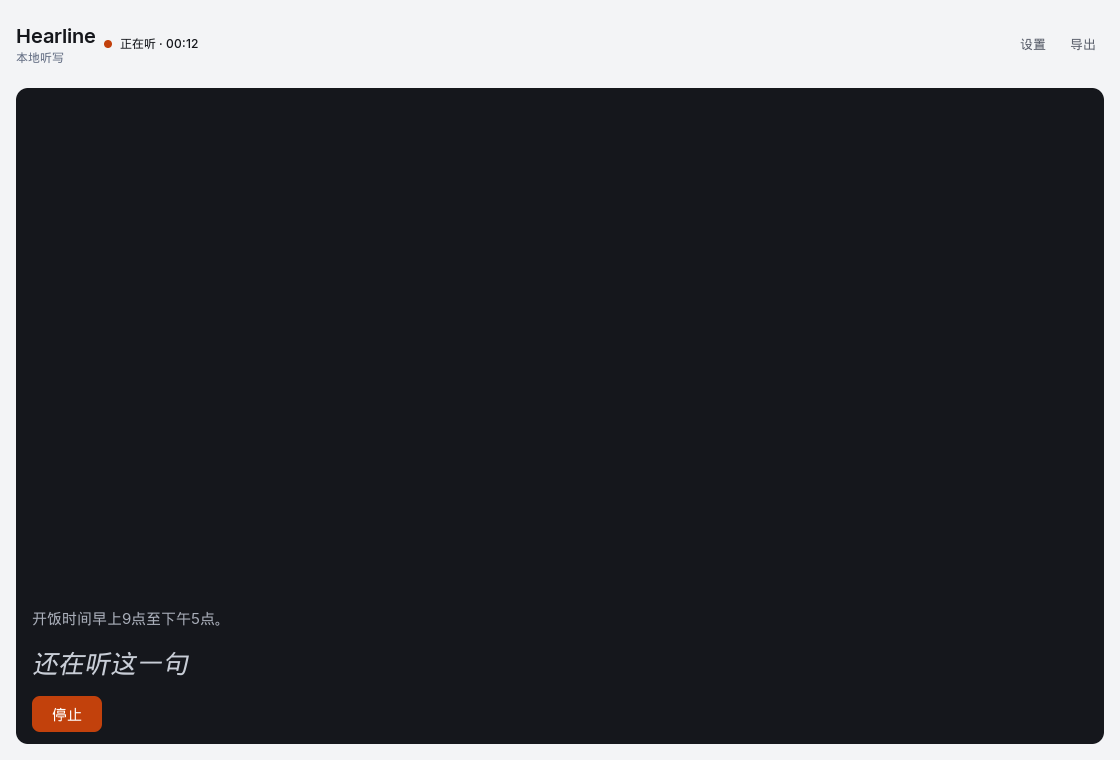
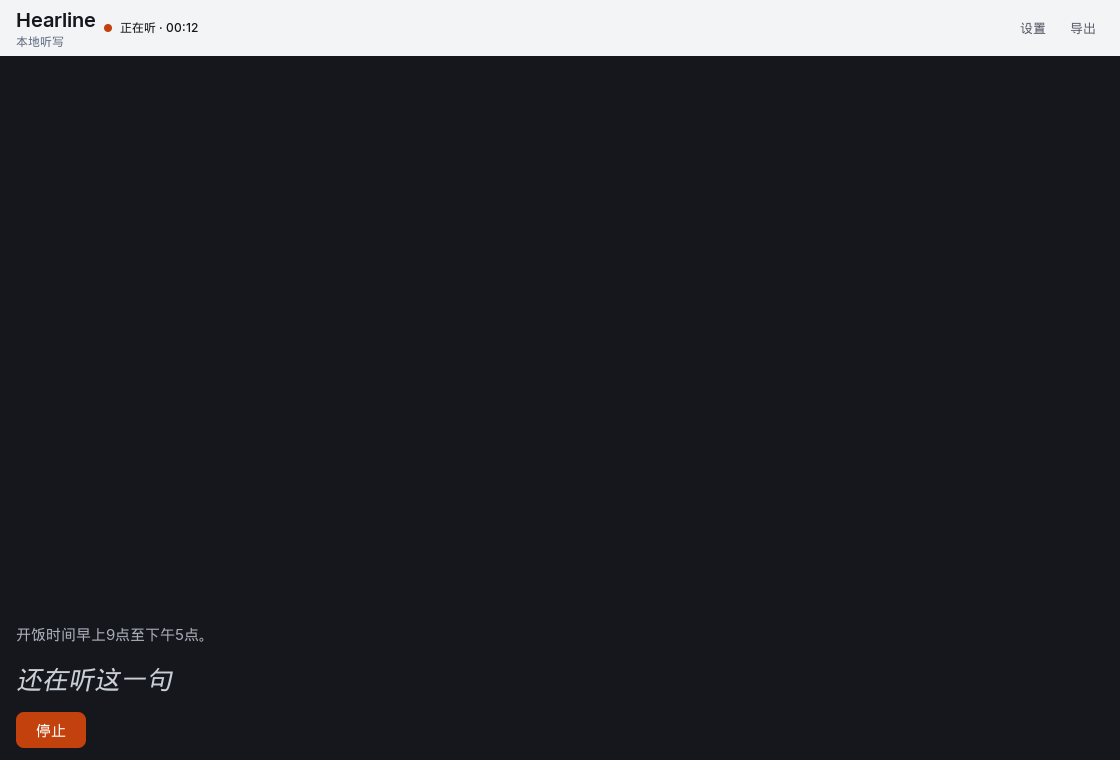
Seat the stage on the window edge
The subtitle surface now runs flush under the header, with square
corners, and the idle line is a short operational hint.

Changed region(s): [[0.0, 0.0, 1.0, 1.0]]

diff --git a/internal/ui/view_test.go b/internal/ui/view_test.go
@@ -220,7 +220,7 @@ func TestChromeLayout(t *testing.T) {
 	if !exactText(idle, "开始听") || exactText(idle, "停止") || exactText(idle, "刷新") || exactText(idle, "更多") || exactText(idle, "纪要") {
 		t.Fatalf("idle texts %v", idle.Texts())
 	}
-	if !idle.HasText(emptyHint) {
+	if !idle.HasText(emptyHint) || idle.HasText("安静的环境") {
 		t.Fatal("idle empty hint missing")
 	}
 	listen := g.NewTester(sampleListening().view, frameWidth, frameHeight)
@@ -256,6 +256,31 @@ func TestChromeLayout(t *testing.T) {
 	if narrow == nil || narrow.Bounds().Dx() != 720 {
 		t.Fatal("narrow frame missing")
 	}
+}
+
+func TestStageIsFlush(t *testing.T) {
+	img := g.Render(sampleEmpty().view, frameWidth, frameHeight, 1)
+	if img == nil {
+		t.Fatal("nil")
+	}
+	stage := g.Hex(HexStage)
+	ground := g.Hex(HexGround)
+	// Header band stays on the ground. The stage meets the window edges
+	// under it, with square corners, so it is a surface rather than a card.
+	if !pixelNear(img, 4, 8, ground) {
+		t.Fatal("header band left the ground")
+	}
+	if !pixelNear(img, 2, int(HeaderH)+4, stage) || !pixelNear(img, frameWidth-3, frameHeight-3, stage) || !pixelNear(img, 2, frameHeight-3, stage) {
+		t.Fatal("stage is inset from the window edge")
+	}
+	if RadiusStage != 0 {
+		t.Fatalf("stage radius %v", RadiusStage)
+	}
+}
+
+func pixelNear(img *image.RGBA, x, y int, want g.Color) bool {
+	rr, gg, bb, _ := img.At(x, y).RGBA()
+	return near8(int(rr>>8), int(want.R), 8) && near8(int(gg>>8), int(want.G), 8) && near8(int(bb>>8), int(want.B), 8)
 }
 
 func TestPrimaryPaintsAccent(t *testing.T) {

diff --git a/internal/ui/view.go b/internal/ui/view.go
@@ -13,7 +13,7 @@ import (
 	"github.com/miaoboai/hearline/internal/pipeline"
 )
 
-const emptyHint = "安静的环境，更准确的听写体验。"
+const emptyHint = "开始听写后字幕会出现在这里"
 
 func (m *Model) view(c *g.Context) {
 	if c == nil || m == nil {
@@ -25,10 +25,12 @@ func (m *Model) view(c *g.Context) {
 		return
 	}
 	m.shortcuts(c)
-	g.Column(c).Fill().Padding(PadWindow).Gap(GapBlock).Background(colorGround).Children(func() {
+	g.Column(c).Fill().Gap(0).Background(colorGround).Children(func() {
 		m.header(c)
 		if m.Panel == panelSettings {
-			m.settingsPage(c)
+			g.Column(c).Grow(1).Padding(PadWindow).Children(func() {
+				m.settingsPage(c)
+			})
 			return
 		}
 		m.listenPage(c)
@@ -92,7 +94,7 @@ func (m *Model) shortcuts(c *g.Context) {
 }
 
 func (m *Model) header(c *g.Context) {
-	g.Row(c).MinHeight(HeaderH).AlignItems(g.Center).Gap(GapInline).Shrink(0).Children(func() {
+	g.Row(c).MinHeight(HeaderH).Padding(0, PadHeaderX).AlignItems(g.Center).Gap(GapInline).Shrink(0).Children(func() {
 		g.Column(c).Gap(0).Shrink(0).Children(func() {
 			text(c, "Hearline", TypeBrand, colorInk).SingleLine()
 			text(c, "本地听写", TypeSub, colorQuiet).SingleLine()

diff --git a/internal/ui/tokens.go b/internal/ui/tokens.go
@@ -42,7 +42,7 @@ const (
 	GapInline     float32 = 8
 	RowSettings   float32 = 44
 	RadiusCtrl    float32 = 8
-	RadiusStage   float32 = 12
+	RadiusStage   float32 = 0
 	RadiusOverlay float32 = 12
 	RadiusMenu    float32 = 8
 	PrimaryMinH   float32 = 36
